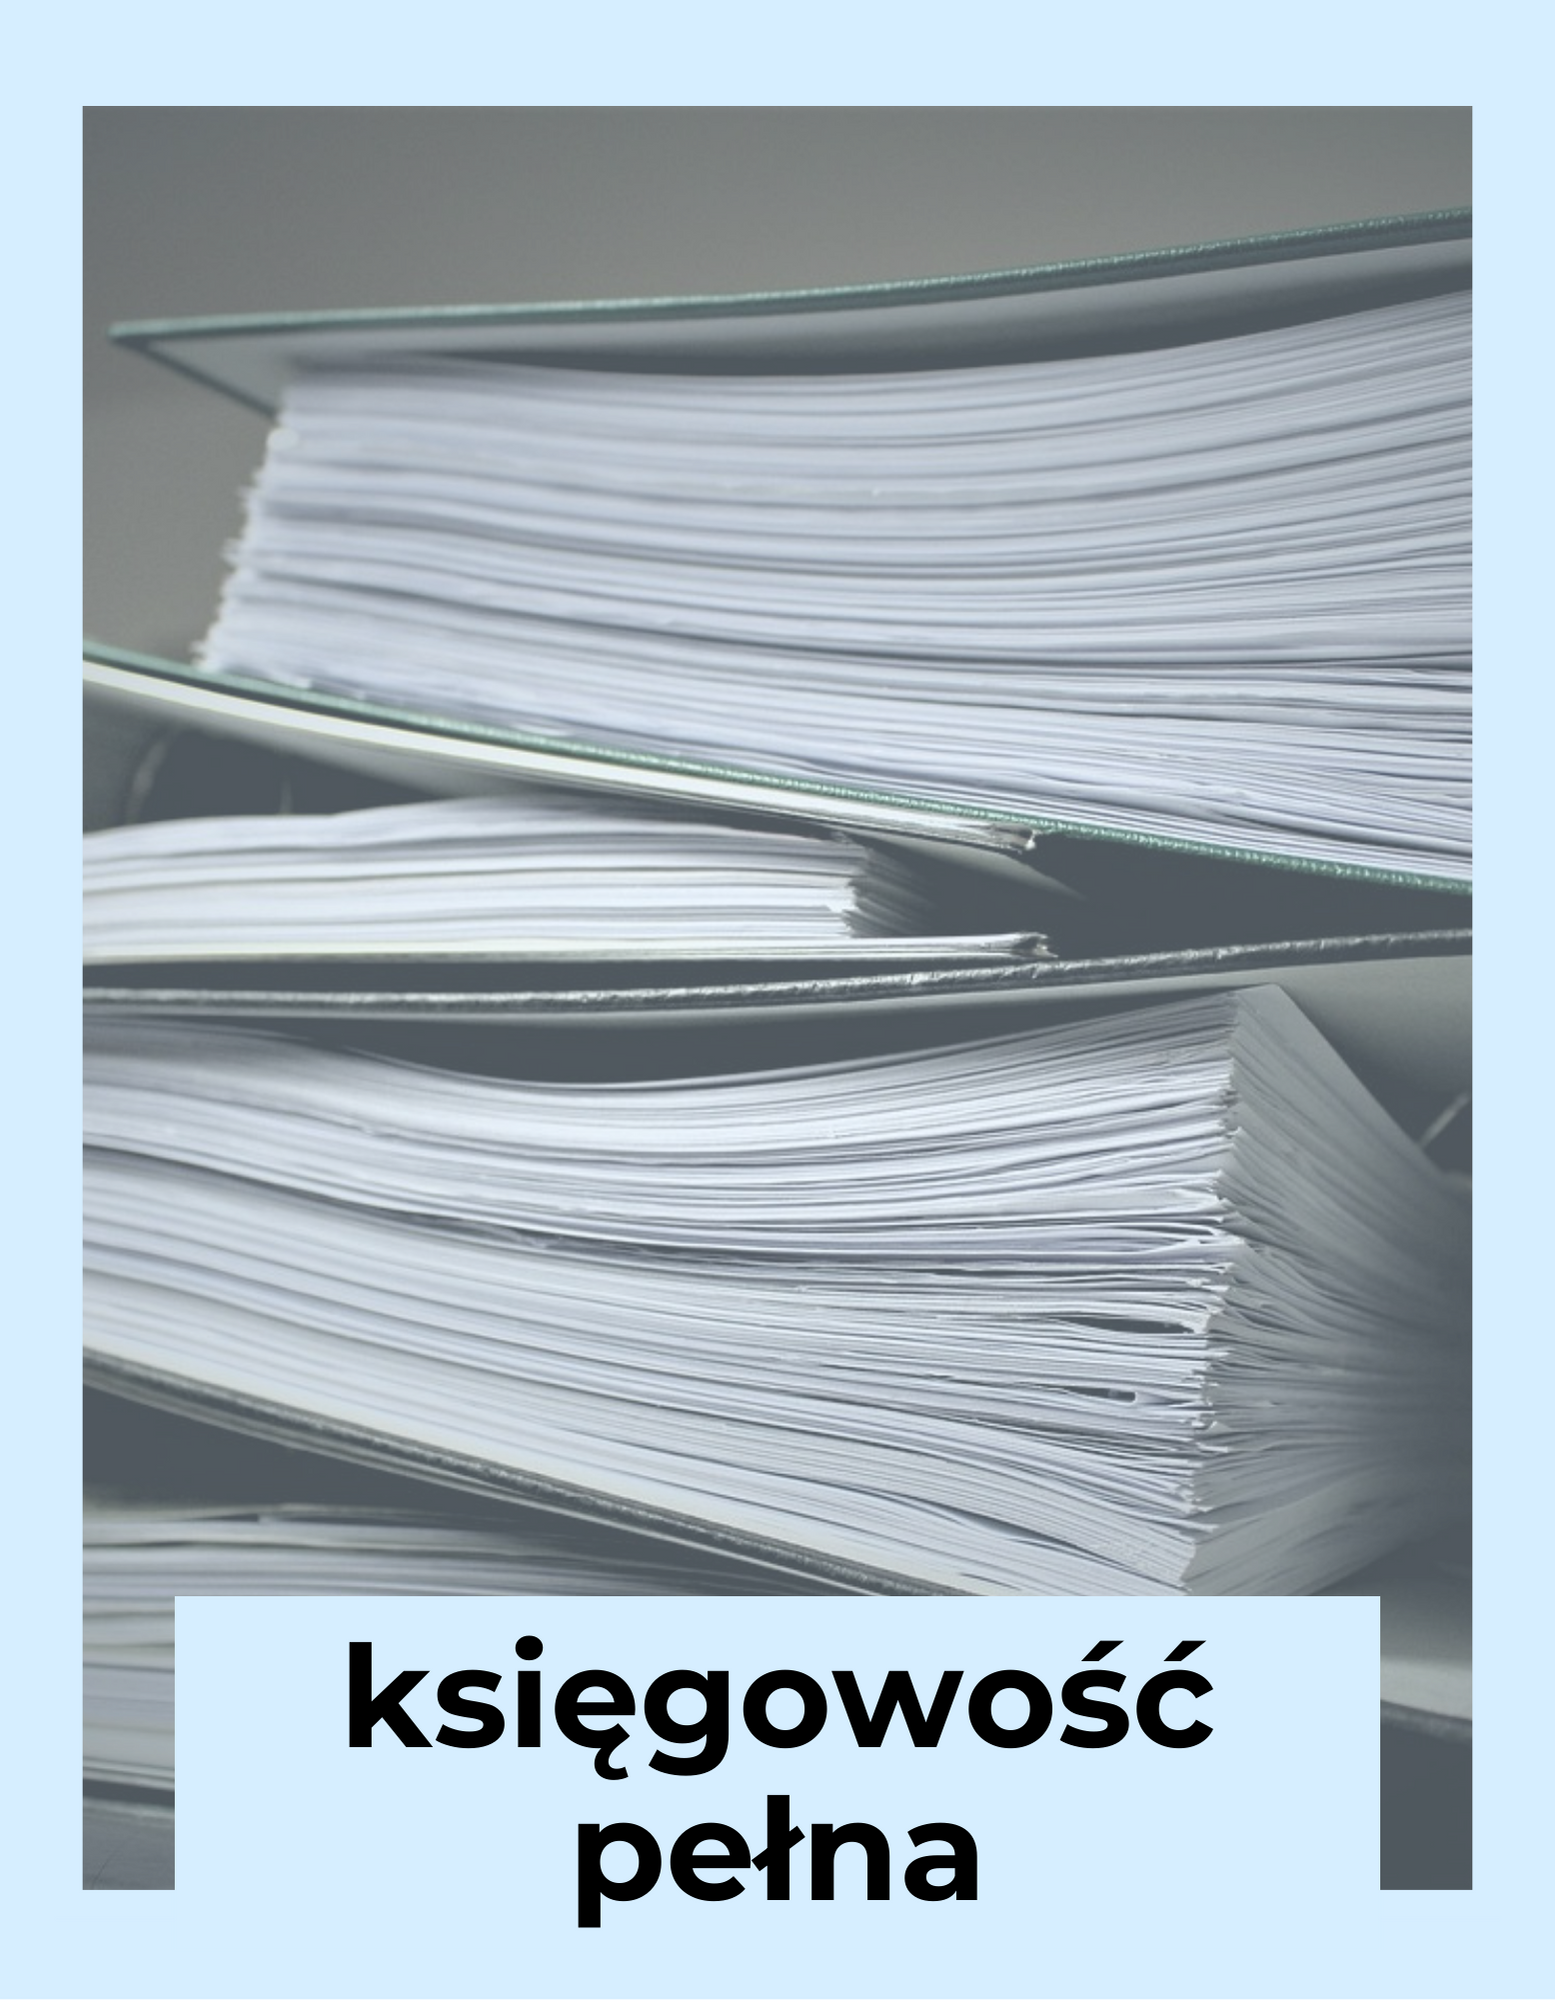
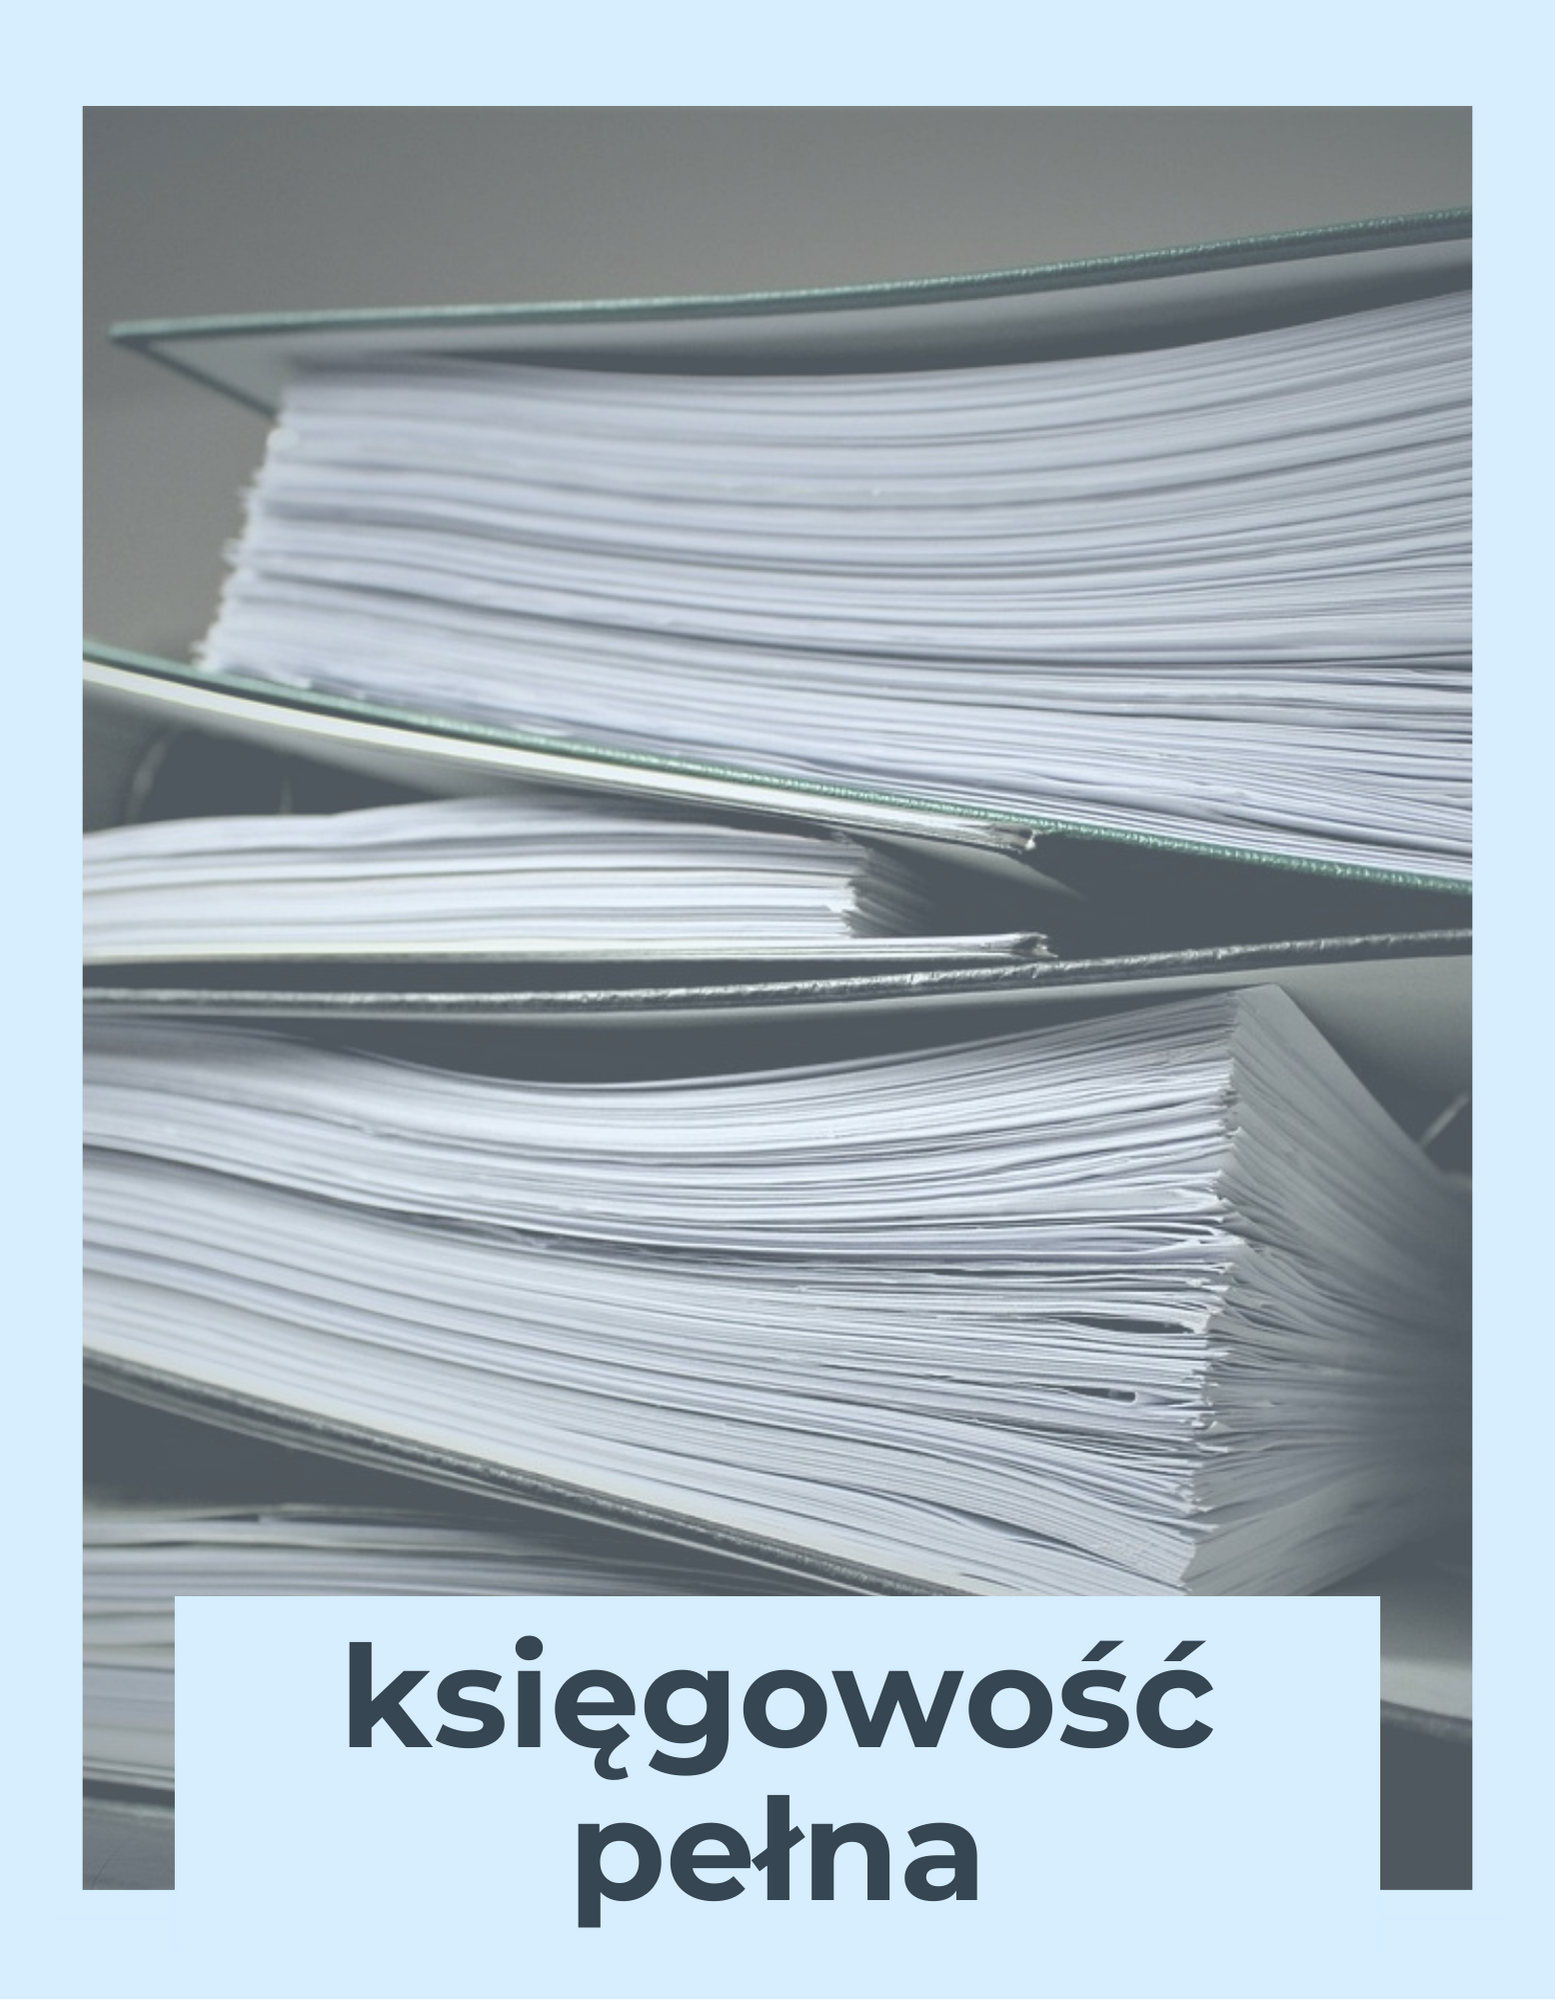
FORMSY

Changed region(s): [[0.2161, 0.806, 0.8026, 0.961]]

diff --git a/style.css b/style.css
@@ -314,3 +314,69 @@ p{
     font-size: 3em;
     color: #d6eeff;
   }
+
+  .pudelka{
+    display: flex;
+    flex-wrap: wrap;
+    flex-direction: row;
+  }
+
+  
+  .rec{
+    background-color: #d6eeff;
+    width:1100px;
+    height: 600px;
+  }
+/*form*/
+#form{
+  background-color: #D6EEFF;
+}
+.bok{
+  display: flex;
+  flex-wrap: wrap;
+  justify-content: center;
+  flex-direction: column;
+  padding-bottom: 40px;
+  
+input{ 
+    
+  padding-left: 0;
+}
+textarea{
+padding-left: 0;}}
+
+input{
+  height: 2em;
+  border: none;
+  border-bottom: 2px solid gray
+}
+textarea{
+  border: none;
+border-bottom: 2px solid gray;
+font-size: 1em;}
+
+::placeholder{
+
+  font-size: 1.5em;
+  align-items: baseline;
+}
+h4{
+  border-radius: 0;
+  font-size: 2em;
+  color: #364652;
+}
+#form{
+display: flex;
+flex-wrap: wrap;
+justify-content: center;
+flex-direction: column;
+align-items: center;
+}
+.przycisk{
+  width: 200px;
+background-color:#364652;
+color: white;
+border-radius: 12px;
+font-size: 2em;
+padding: 5px;
+justify-content: center;}

diff --git a/index.html b/index.html
@@ -73,3 +73,15 @@
           </div>
           </div>
     </section>
+    <section id="form">
+    <h4>ZADAJ NAM PYTANIE!</h4>
+    <form action="https://formspree.io/f/xleqekln" method="POST">
+<div>
+<div class="bok"><input type="text" name="Full Name" class="input" placeholder="Imię i nazwisko" autocomplete="off" required></div>
+<div class="bok"><input type="email" name="Email" class="input" placeholder="Adres e-mail" autocomplete="off" required></div>
+<div class="bok"><input type="text" name="Phone" class="input" placeholder="Numer telefonu" autocomplete="off" required></div>
+<div class="bok"><textarea name="Message" id="" cols="30" rows="10" class="input" placeholder="Twoja wiadomość" autocomplete="off" required></textarea></div>
+</div>
+<button type="submit"> Wyślij</button>
+    </form>  
+</section>
